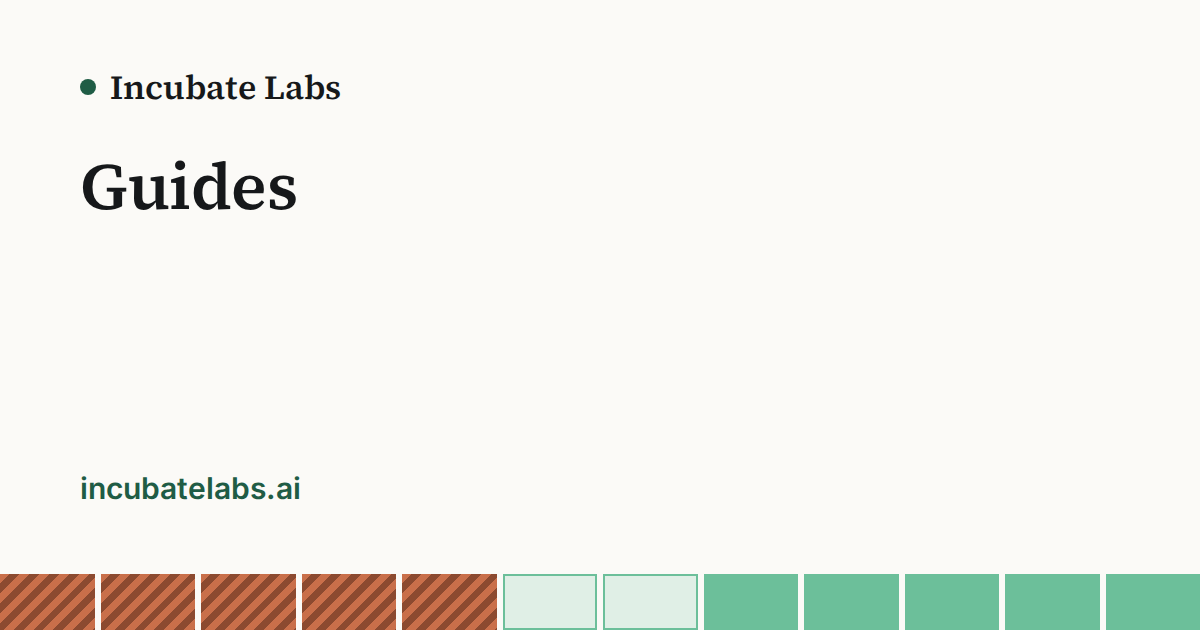
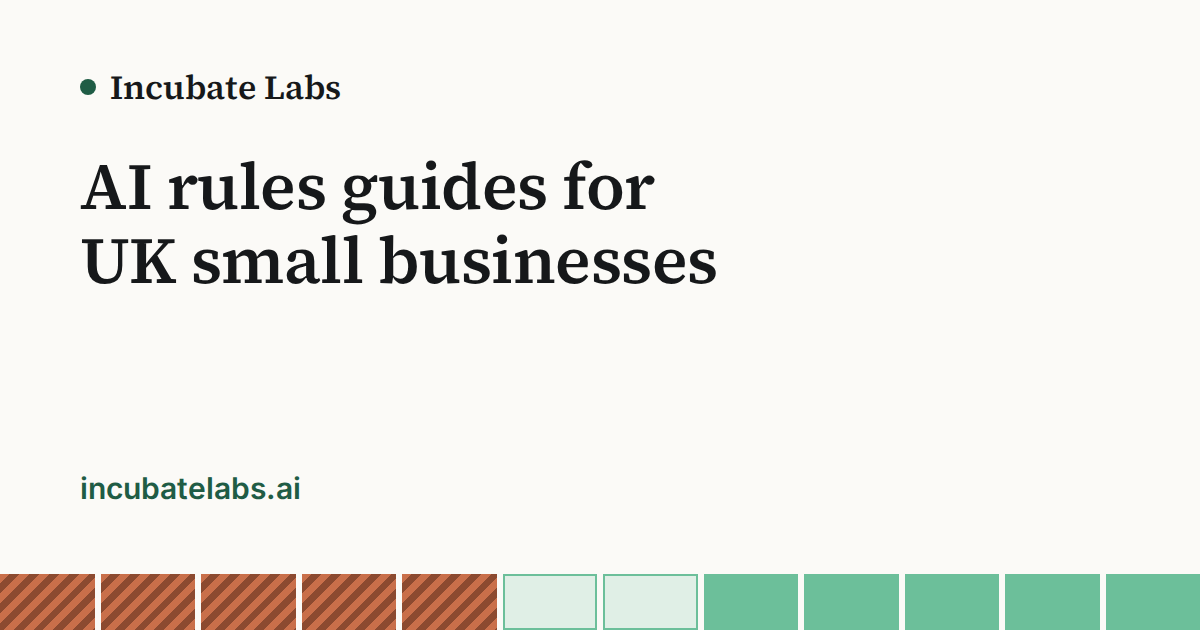
Replace broken ICO source link; lengthen /guides/ OG headline

Changed region(s): [[0.0617, 0.2413, 0.6167, 0.4524]]

diff --git a/STATE.md b/STATE.md
@@ -9,7 +9,7 @@
 - **Shipped**: `src/content/guides/` collection (`src/content.config.ts`); one layout (`src/layouts/GuideLayout.astro`) with breadcrumbs, last-reviewed line, callout, visible FAQ + FAQPage JSON-LD built from the rendered text, muted sources, "More guides"; markup shaped by `src/lib/rehype-guide.mjs`. Pages: /guides/, /guides/eu-ai-act-uk/, /guides/eu-ai-act-article-50-chatbots/, /guides/uk-ai-act/, /guides/ai-literacy-training-staff/, /resources/ai-policy-template/ (docx via `src/lib/policy-docx.ts`, .md, copy button). OG images in `public/og/` from `design/guides-2026-10/og/build-og.mjs`. Footer Guides column, home "no rules" link, email-replies disclosure sentence.
 - **Checks**: `src/integrations/site-checks.mjs` runs on every build (banned strings, [placeholders] outside the three marked example blocks, title ≤60, description ≤155). Content-layer renders are cached in `node_modules/.astro/data-store.json`: delete it after changing the rehype plugin. Lighthouse 100/100/100/100 mobile and desktop on the main guide and template page (local).
 - **Deployed** 2026-10-12: preview https://guides-2026-10.incubatelabs.pages.dev, then production (`8661cfd`). Browser checks 66/66 on local, preview and live; schema.org validator 0 errors/0 warnings on the main guide and template page; IndexNow accepted the six new URLs. The Cloudflare API returned intermittent 504s on the mailer Worker step; re-running the workflow cleared them.
-- **External links**: the ICO "72 hours" link (UK AI Act guide and template page) returns 404. Not replaced; needs a new URL from Simon.
+- **External links**: all 12 return 2xx/3xx after the ICO source was replaced with the breach-reporting page (2026-10-12). /guides/ OG headline is "AI rules guides for UK small businesses".
 
 ## v1.1 (live; built on `v1.1-brand-hero`, spec: `design/v1.1/spec.md`)
 - Brand tokens (`admin`, `admin-deep`, `night`, `night-raised`, `accent-bright`); text logo kept until logo files land.
@@ -40,10 +40,8 @@
 - "Illustrative" is still visible in the hero footnote that cites the Amex and Microsoft sources (`src/components/LostDayHero.astro`); left in place.
 
 ## Open items
-- **ICO source link 404**: replace `https://ico.org.uk/for-organisations/sme-web-hub/72-hours-how-to-respond-to-a-personal-data-breach` in `src/content/guides/uk-ai-act.md` and `ai-policy-template.md`.
 - **AI literacy page H1/title**: SERPs checked 2026-10-12 (see `research/seo-2026-10/eu-ai-act.md` addendum): "ai literacy training" is gov.uk, education bodies and training sellers; "ai literacy course" is course-shopping intent. Revisit the H1 and title as the copy's build note says; not changed in this sprint.
 - **Readiness Check EU questions**: add the EU AI Act questions later.
-- **Guides OG for /guides/**: the card headline is the H1, "Guides", per spec; consider a longer headline.
 - **Legal footer line**: still names the town ("…a sole trader based in Huntingdon, Cambridgeshire."), the only location on the site. Keep the town or use a business address.
 - **Dedicated /websites page**: the websites offer currently lives in a card on the home page and /use-cases/, plus a Service entry in the home JSON-LD.
 - **Copilot guide**: Microsoft Copilot pricing and value for small businesses (the competitor gap in `research/seo-2026-10/`); fits the new /guides/ section.

diff --git a/src/content/guides/uk-ai-act.md b/src/content/guides/uk-ai-act.md
@@ -94,4 +94,4 @@ It applies to UK businesses whose AI is used in the EU or whose AI output is use
 2. [UK AI regulation in 2026: what's in force and what's coming (Scaffold)](https://www.scaffold.digital/news/uk-ai-regulation-in-2026-whats-in-force-whats-coming-and-what-your-business-should-do)
 3. [King's Speech signals diffuse UK digital policy agenda, but no AI bill (IAPP)](https://iapp.org/news/a/king-s-speech-signals-diffuse-uk-digital-policy-agenda-but-no-ai-bill)
 4. [Data (Use and Access) Act 2025 (legislation.gov.uk)](https://www.legislation.gov.uk/ukpga/2025/18/contents)
-5. [ICO: 72 hours, how to respond to a personal data breach](https://ico.org.uk/for-organisations/sme-web-hub/72-hours-how-to-respond-to-a-personal-data-breach)
+5. [ICO: UK GDPR data breach reporting](https://ico.org.uk/for-organisations/report-a-breach/personal-data-breach/)

diff --git a/src/content/guides/ai-policy-template.md b/src/content/guides/ai-policy-template.md
@@ -134,4 +134,4 @@ AI tools staff use for work without the business knowing or approving, usually o
 
 1. [Microsoft and Censuswide research on unapproved AI use at work, 2025](https://ukstories.microsoft.com/features/rise-in-shadow-ai-tools-raising-security-concerns-for-uk)
 2. [AI literacy under Article 4, as amended in July 2026](https://euaiactchecklist.com/eu-ai-act-ai-literacy-article-4.html)
-3. [ICO: 72 hours, how to respond to a personal data breach](https://ico.org.uk/for-organisations/sme-web-hub/72-hours-how-to-respond-to-a-personal-data-breach)
+3. [ICO: UK GDPR data breach reporting](https://ico.org.uk/for-organisations/report-a-breach/personal-data-breach/)
